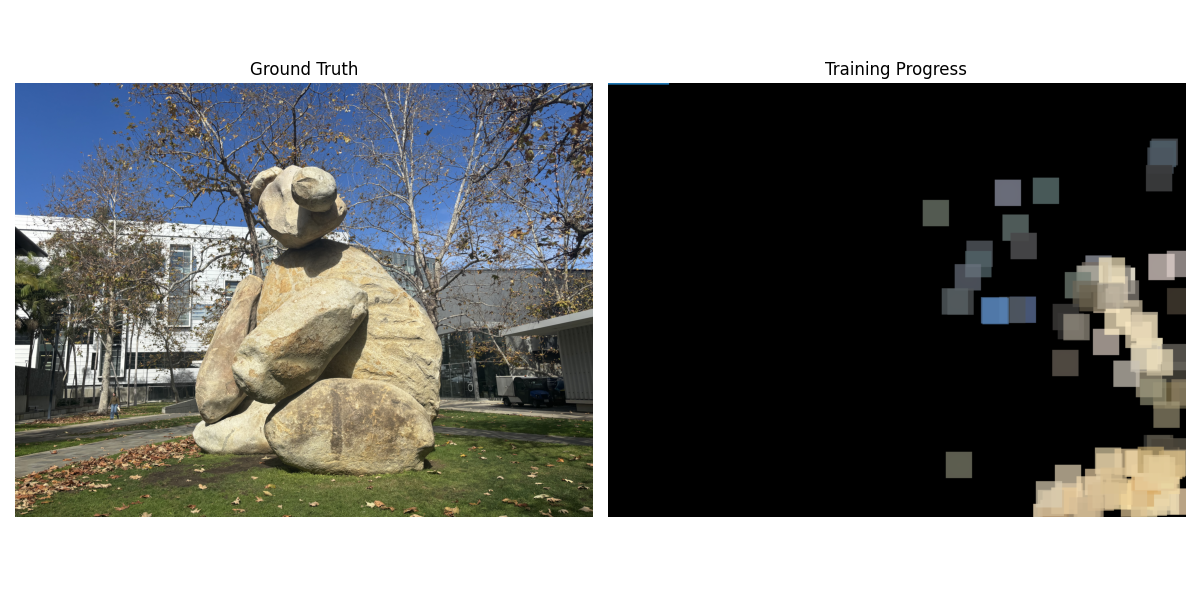
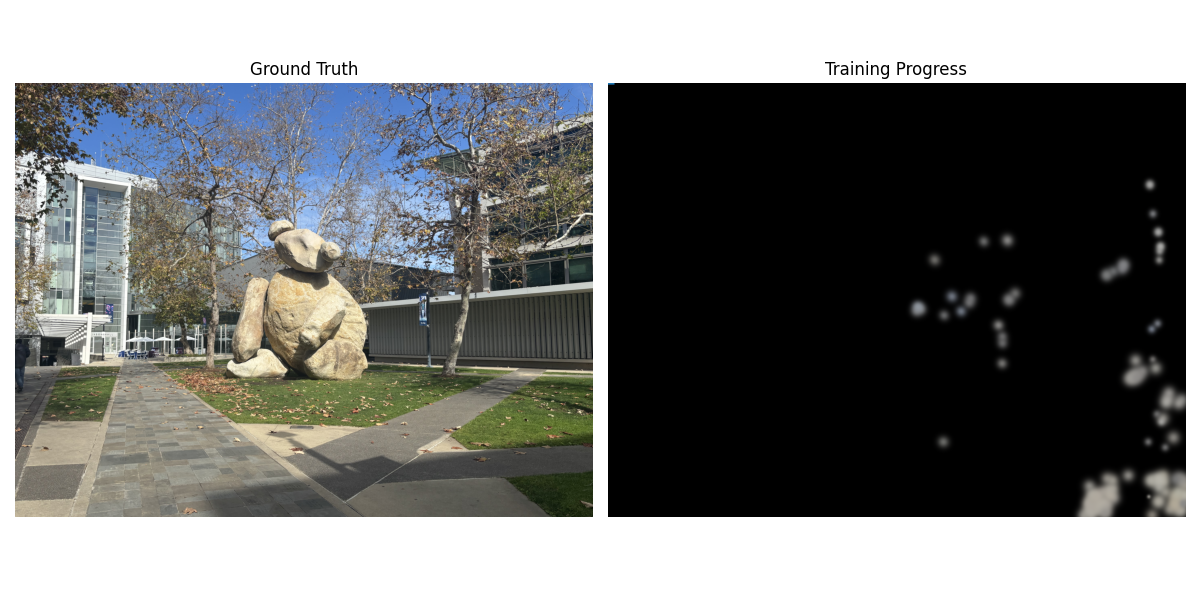
bumped up scale and down iterations

diff --git a/colmap_test/train.py b/colmap_test/train.py
@@ -36,7 +36,7 @@ class GaussianModel(nn.Module):
         # clamp initial scales to prevent exploding bounding boxes
         with torch.no_grad():
             self.scales.clamp_(-3, 3)
-            self.scales.fill_(-2.0)  # exp(1) ≈ 2.7 world units, much more visible
+            self.scales.fill_(-3.0)  # exp(1) ≈ 2.7 world units, much more visible
         
         print(f"Initialized model with {N} Gaussians")
         print(f"Total parameters: {sum(p.numel() for p in self.parameters())}")
@@ -191,7 +191,7 @@ print(f"  Colors: {model.colors.shape}")
 
 # Run training
 print("STARTING TRAINING")
-losses = train_gaussians(model, cameras_data, num_iterations=300, lr=0.001)
+losses = train_gaussians(model, cameras_data, num_iterations=30, lr=0.001)
 
 
 # After training
